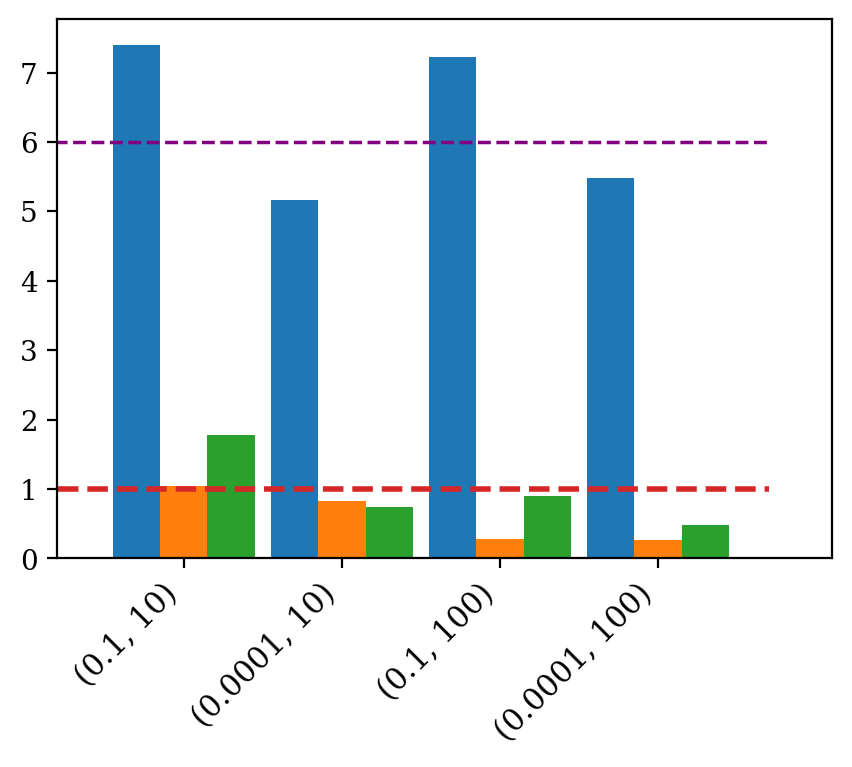
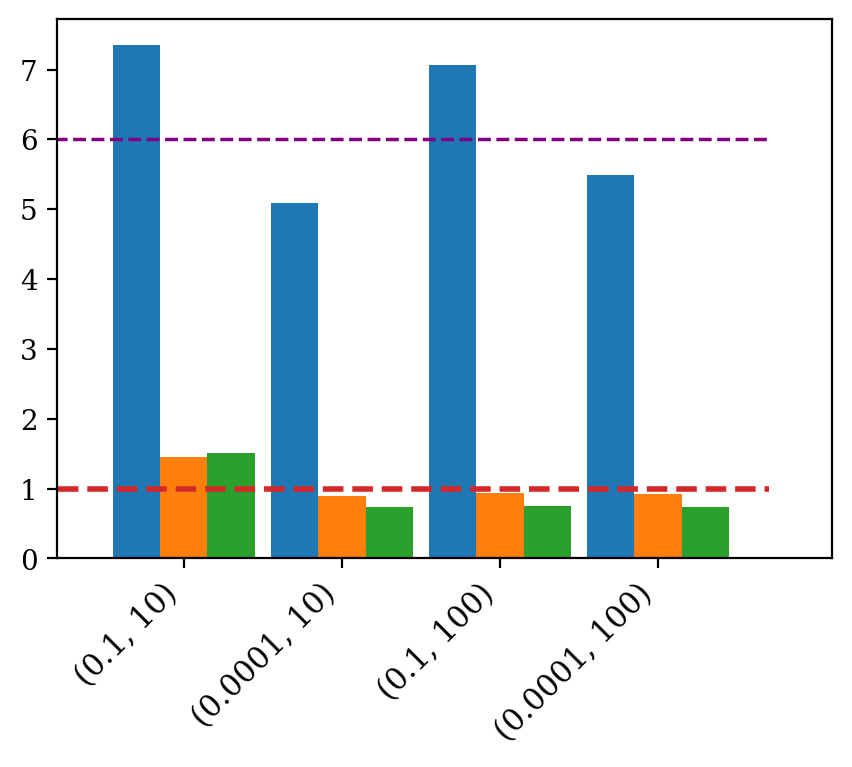
Update 4D MTTKRP chart and use col major output in 5D MTTKRP

diff --git a/kernels/mttkrp/mttkrp_taco_dim5.cpp b/kernels/mttkrp/mttkrp_taco_dim5.cpp
@@ -19,7 +19,7 @@ int main(int argc, char **argv)
     Tensor<double> B_T = read(fs::path(params.input) / "B_T.ttx", Format({Dense, Dense}, {1, 0}), true);
     int n = A.getDimension(0);
     int r = B_T.getDimension(0);
-    Tensor<double> C_T("C_T", {r, n}, Format({Dense, Dense}));
+    Tensor<double> C_T("C_T", {r, n}, Format({Dense, Dense}, {1, 0}));
 
     IndexVar i, j, k, l, m, p;
 
